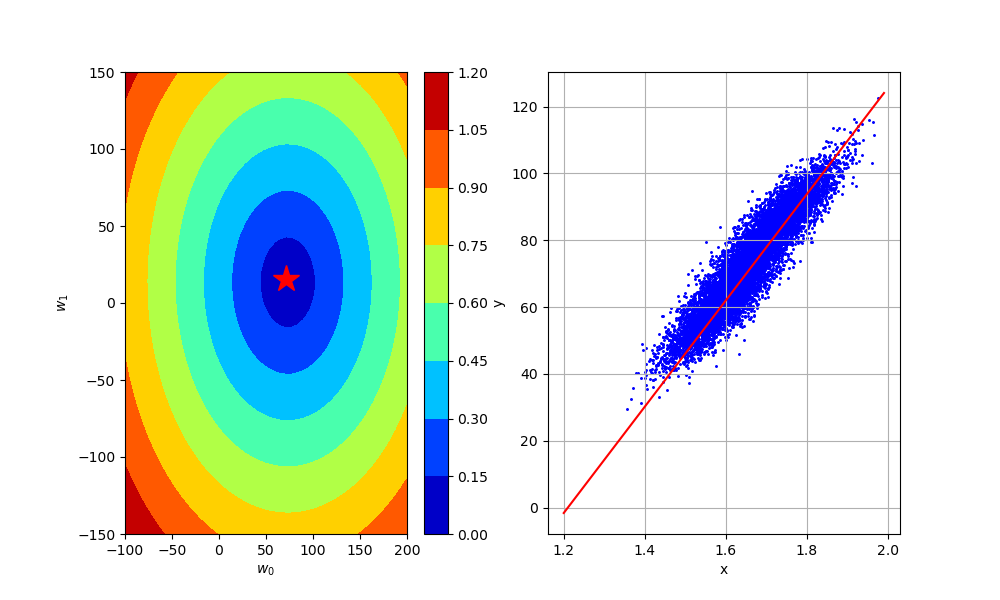
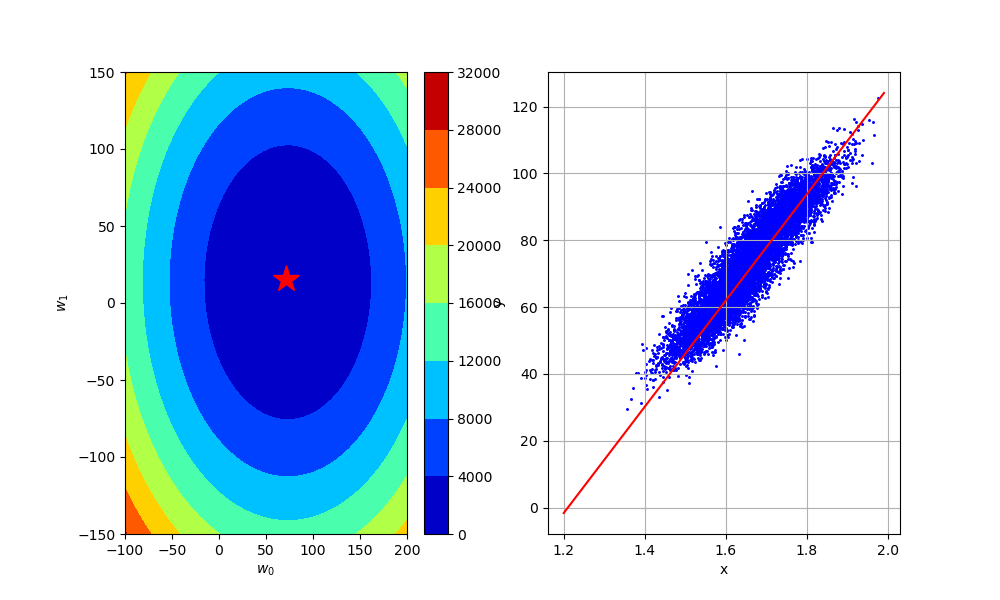
Fixed compute loss function and all the calling functions

diff --git a/labs/ex02/template/costs.py b/labs/ex02/template/costs.py
@@ -4,7 +4,7 @@
 import numpy as np
 
 
-def compute_loss(y, tx, w):
+def compute_loss(y, tx, w,method):
     """Calculate the loss using either MSE or MAE.
 
     Args:
@@ -17,5 +17,11 @@ def compute_loss(y, tx, w):
     """
     e=y-tx@w
     N=y.shape[0]
-    L=(1/(2*N))*np.linalg.norm(e)
+    if method=="MSE":
+        L=(1/(2*N))*np.dot(e,e)
+    elif method=="MAE":
+        L=(1/N)*np.sum(np.abs(e))
+    else:
+        raise ValueError("method must be 'MSE' or 'MAE'")
+
     return L

diff --git a/labs/ex02/template/stochastic_gradient_descent.py b/labs/ex02/template/stochastic_gradient_descent.py
@@ -48,7 +48,7 @@ def stochastic_gradient_descent(y, tx, initial_w, batch_size, max_iters, gamma):
 
     for n_iter in range(max_iters):
         y_batch, tx_batch = next(batch_iter(y, tx, batch_size))
-        loss=compute_loss(y_batch,tx_batch,w)
+        loss=compute_loss(y_batch,tx_batch,w,method="MSE")
         w=w-gamma*compute_stoch_gradient(y_batch,tx_batch,w)
 
         ws.append(w)

diff --git a/labs/ex02/template/grid_search.py b/labs/ex02/template/grid_search.py
@@ -37,5 +37,5 @@ def grid_search_mine(y, tx, grid_w0, grid_w1):
     losses = np.zeros((len(grid_w0), len(grid_w1)))
     W0, W1= np.meshgrid(grid_w0, grid_w1, indexing="ij")
     pairs=np.stack([W0,W1], axis=-1)
-    losses= np.apply_along_axis(lambda w: compute_loss(y,tx,w),-1,pairs)
+    losses= np.apply_along_axis(lambda w: compute_loss(y,tx,w,method="MSE"),-1,pairs)
     return losses

diff --git a/labs/ex02/template/gradient_descent.py b/labs/ex02/template/gradient_descent.py
@@ -43,7 +43,7 @@ def gradient_descent_mine(y, tx, initial_w, max_iters, gamma):
     losses = []
     w = initial_w
     for n_iter in range(max_iters):
-        loss=compute_loss(y,tx,w)
+        loss=compute_loss(y,tx,w,method="MSE")
         w=w-gamma*compute_gradient(y,tx,w)
 
         # store w and loss
